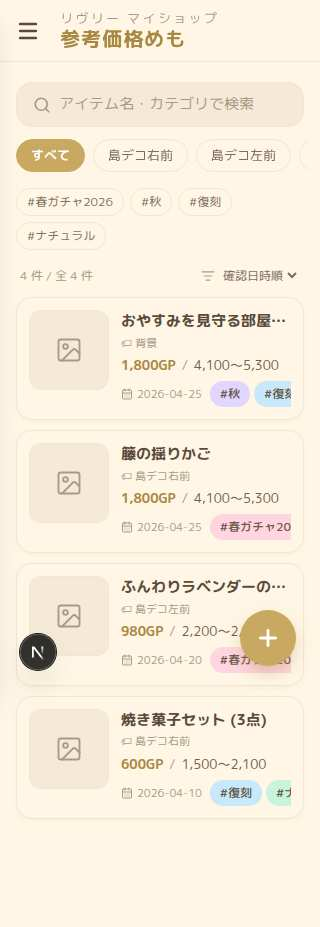
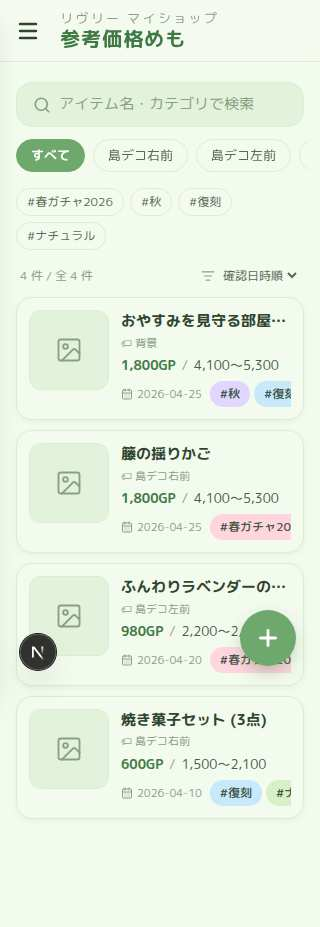
Switch palette to green-based pastel
Keeps the existing class names (cream/beige/gold) but reassigns each to
a green tone — pale leaf for the page background, sage for the primary
accent (FAB, active filter, title), and dark forest for body text.
Updates the FAB and card shadows so they match the new accent.
Refreshes the screenshots under docs/screenshots/.

https://claude.ai/code/session_01QfKFPG59Pejpqns5ZAaJf6

diff --git a/src/app/globals.css b/src/app/globals.css
@@ -1,17 +1,18 @@
 @import "tailwindcss";
 
 :root {
-  --color-cream: #fff6e5;
-  --color-beige: #f0e6d2;
-  --color-beige-deep: #e6d8b8;
-  --color-gold: #c9a961;
-  --color-gold-deep: #a88842;
-  --color-pink: #ffd6e0;
-  --color-mint: #c8f4de;
-  --color-sky: #c7e9fb;
-  --color-lavender: #e0d6ff;
-  --color-text: #5a4a3a;
-  --color-muted: #a89b85;
+  /* Green-based pastel palette. Class names kept (cream/beige/gold) for stability. */
+  --color-cream: #f3faee;       /* page background — pale leaf */
+  --color-beige: #dceed1;       /* card border / soft chip bg */
+  --color-beige-deep: #c2dfb1;  /* deeper leaf */
+  --color-gold: #6fa86c;        /* primary accent (CTA, FAB) — sage */
+  --color-gold-deep: #3f7a44;   /* deep accent for titles / active text */
+  --color-pink: #ffd6e0;        /* tag: gacha */
+  --color-mint: #d6f0c8;        /* tag: category — green-leaning mint */
+  --color-sky: #c7e9fb;         /* tag: custom */
+  --color-lavender: #e0d6ff;    /* tag: period */
+  --color-text: #2f4530;        /* main text — dark forest */
+  --color-muted: #88a085;       /* muted text — sage */
 
   --background: var(--color-cream);
   --foreground: var(--color-text);
@@ -51,8 +52,8 @@ body {
 .paper {
   background-color: var(--color-cream);
   background-image:
-    radial-gradient(rgba(201, 169, 97, 0.04) 1px, transparent 1px),
-    radial-gradient(rgba(201, 169, 97, 0.03) 1px, transparent 1px);
+    radial-gradient(rgba(63, 122, 68, 0.05) 1px, transparent 1px),
+    radial-gradient(rgba(63, 122, 68, 0.03) 1px, transparent 1px);
   background-position: 0 0, 8px 8px;
   background-size: 16px 16px;
 }

diff --git a/src/components/ItemCard.tsx b/src/components/ItemCard.tsx
@@ -37,7 +37,7 @@ export default function ItemCard({
   return (
     <Link
       href={`/items/${item.id}`}
-      className="block rounded-2xl bg-cream border border-beige hover:border-gold/50 active:border-gold transition-colors shadow-[0_2px_8px_-4px_rgba(168,136,66,0.18)] overflow-hidden"
+      className="block rounded-2xl bg-cream border border-beige hover:border-gold/50 active:border-gold transition-colors shadow-[0_2px_8px_-4px_rgba(63,122,68,0.18)] overflow-hidden"
     >
       <div className="flex gap-3 p-3">
         <div className="shrink-0 w-20 h-20 rounded-xl bg-beige/70 border border-beige overflow-hidden flex items-center justify-center text-muted">

diff --git a/src/components/Fab.tsx b/src/components/Fab.tsx
@@ -6,7 +6,7 @@ export default function Fab({ href }: { href: string }) {
     <Link
       href={href}
       aria-label="新規登録"
-      className="fixed bottom-6 right-6 z-20 w-14 h-14 rounded-full bg-gold text-white shadow-[0_8px_20px_-6px_rgba(168,136,66,0.6)] hover:bg-gold-deep active:scale-95 transition-all flex items-center justify-center"
+      className="fixed bottom-6 right-6 z-20 w-14 h-14 rounded-full bg-gold text-white shadow-[0_8px_20px_-6px_rgba(63,122,68,0.5)] hover:bg-gold-deep active:scale-95 transition-all flex items-center justify-center"
     >
       <Plus size={26} strokeWidth={2.6} />
     </Link>

diff --git a/src/app/layout.tsx b/src/app/layout.tsx
@@ -17,7 +17,7 @@ export const metadata: Metadata = {
 };
 
 export const viewport: Viewport = {
-  themeColor: "#fff6e5",
+  themeColor: "#f3faee",
   width: "device-width",
   initialScale: 1,
   maximumScale: 1,
